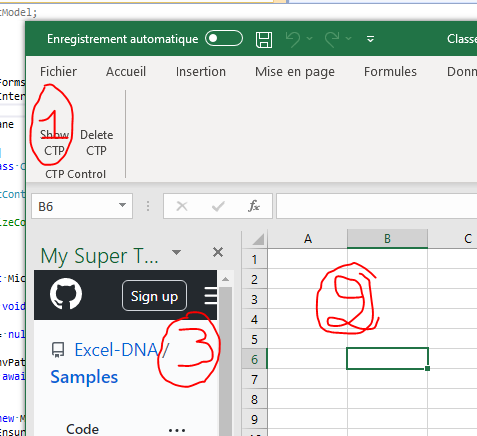
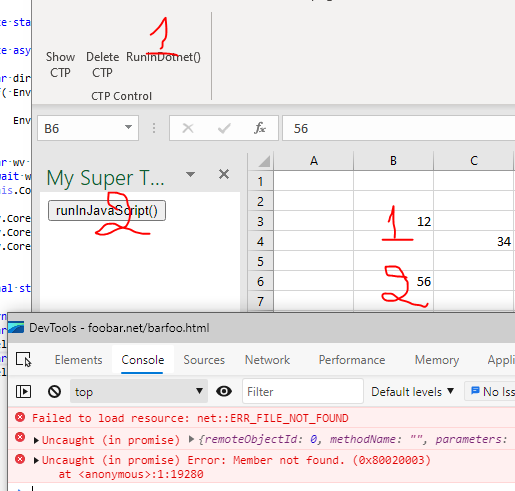
Demo Excel automation in C# & JavaScript

diff --git a/CustomTaskPane/barfoo.html b/CustomTaskPane/barfoo.html
@@ -1,0 +1,46 @@
+<html>
+<head>
+	<title>Hello world</title>
+</head>
+<body>
+
+	<button onclick="runInJavaScript()">runInJavaScript()</button>
+
+	<script type="text/javascript">
+		async function runInJavaScript()
+		{
+			var excel = chrome.webview.hostObjects.excel;
+			var cell = await excel.ActiveCell;
+			cell.Value = 56;
+			var cell2 = await excel.ActiveCell.Cells(2, 2);		// Crash with: "VM6:2 Uncaught Error: Member not found. (0x80020003)"
+															// AND
+																/*
+																Uncaught (in promise) {remoteObjectId: 0, methodName: "", parameters: {�}, callId: 16}
+																Promise.then(async)
+																createPublicObject @VM6: 1
+																applyHostFunction @VM6: 1
+																apply @VM6: 1
+																	(anonymous) @VM289: 1
+																*/
+			cell.Cells(2, 2).Value = 78;  // Crash with
+										/*
+										Uncaught(in promise) { remoteObjectId: 0, methodName: "", parameters: { � }, callId: 23 }
+										Promise.then(async)
+										createPublicObject @VM6: 1
+										applyHostFunction @VM6: 1
+										apply @VM6: 1
+											(anonymous) @VM552: 1
+										*/
+									// AND
+										/*
+										Uncaught (in promise) {remoteObjectId: 0, methodName: "", parameters: {�}, callId: 23}
+										Promise.then (async)
+										setHostProperty @ VM6:1
+										_setAmbiguous @ VM6:1
+										set @ VM6:1
+										(anonymous) @ VM552:1
+										*/
+		}
+	</script>
+</body>
+</html>

diff --git a/CustomTaskPane/ContentControl.cs b/CustomTaskPane/ContentControl.cs
@@ -23,16 +23,28 @@ namespace CustomTaskPane
 
 		private async void Foo()
 		{
+			var dirPath = System.IO.Path.GetDirectoryName( AddIn.XllPath );
 			if( Env == null )
 			{
-				var envPath = System.IO.Path.GetDirectoryName( AddIn.XllPath );
-				Env = await Microsoft.Web.WebView2.Core.CoreWebView2Environment.CreateAsync( null, envPath );
+				Env = await Microsoft.Web.WebView2.Core.CoreWebView2Environment.CreateAsync( null, dirPath );
 			}
 
 			var wv = new Microsoft.Web.WebView2.WinForms.WebView2{ Dock=DockStyle.Fill };
 			await wv.EnsureCoreWebView2Async( Env );
 			this.Controls.Add( wv );
-			wv.CoreWebView2.Navigate( "https://github.com/Excel-DNA/Samples/tree/master/CustomTaskPane" );
+
+			wv.CoreWebView2.AddHostObjectToScript( "excel", ExcelDna.Integration.ExcelDnaUtil.Application );
+			wv.CoreWebView2.SetVirtualHostNameToFolderMapping( "foobar.net", dirPath, Microsoft.Web.WebView2.Core.CoreWebView2HostResourceAccessKind.Allow );
+			wv.CoreWebView2.Navigate( "https://foobar.net/barfoo.html" );
         }
+
+		internal static void RunInDotnet()
+		{
+			dynamic application = ExcelDna.Integration.ExcelDnaUtil.Application;
+			var cell = application.ActiveCell;
+			cell.Value = 12;
+			var cell2 = cell.Cells( 2, 2 );
+			cell2.Value = 34;
+		}
     }
 }

diff --git a/CustomTaskPane/Ribbon.cs b/CustomTaskPane/Ribbon.cs
@@ -16,6 +16,7 @@ namespace CustomTaskPane
         <group id='SampleGroup' label='CTP Control'>
             <button id='Button1' label='Show CTP' size='large' onAction='OnShowCTP' />
             <button id='Button2' label='Delete CTP' size='large' onAction='OnDeleteCTP' />
+            <button id='Button3' label='RunInDotnet()' size='large' onAction='RunInDotnet' />
         </group >
         </tab>
     </tabs>
@@ -34,5 +35,10 @@ namespace CustomTaskPane
         {
             CTPManager.DeleteCTP();
         }
+
+		public void RunInDotnet(IRibbonControl control)
+		{
+			ContentControl.RunInDotnet();
+		}
     }
 }

diff --git a/README.md b/README.md
@@ -1,12 +1,12 @@
-# Test project to demonstrate keyboard focus issue with ExcelDNA + TaskPane + WebView2
-
-cf. issue at https://github.com/MicrosoftEdge/WebView2Feedback/issues/933  
+# Test project to demonstrate issue with Excel COM object when used by JavaScript as hostObject in a WebView2 control
 The demo project is at [./CustomTaskPane/](./CustomTaskPane/)
 
-0) Open an empty Excel file  
-1) Click show task pane  
-2) Test that the arrow keys/page up|down/etc. are still moving the Excel's cursor in the worksheet  
-3) Click the WebView2 so it takes control  
-4) Back to (2), the arrow keys/page up|down/etc. are still moving the WebView's page, but not the Excel's cursor anymore  
-5) Focus on another window and go back, everything is back to normal (2)  
-![alt text](screenshot01.png "Logo Title Text 1")
+1) When the little automation script is run from C#, the execution successfully completes  
+   (cf. `RunInDotnet()` in `ContentControl.cs`)  
+2) When the same automation script is run from JavaScript,  
+   (cf. `runInJavaScript()` in `barfoo.html`)  
+   the execution fails with  
+   ```
+    VM6:2 Uncaught Error: Member not found. (0x80020003)
+   ```  
+![alt text](./CustomTaskPane/screenshot01.png "Logo Title Text 1")

diff --git a/CustomTaskPane/README.md b/CustomTaskPane/README.md
@@ -1,11 +1,11 @@
-# Test project to demonstrate keyboard focus issue with ExcelDNA + TaskPane + WebView2
+# Test project to demonstrate issue with Excel COM object when used by JavaScript as hostObject in a WebView2 control
 
-cf. issue at https://github.com/MicrosoftEdge/WebView2Feedback/issues/933  
-
-0) Open an empty Excel file  
-1) Click show task pane  
-2) Test that the arrow keys/page up|down/etc. are still moving the Excel's cursor in the worksheet  
-3) Click the WebView2 so it takes control  
-4) Back to (2), the arrow keys/page up|down/etc. are still moving the WebView's page, but not the Excel's cursor anymore  
-5) Focus on another window and go back, everything is back to normal (2)  
+1) When the little automation script is run from C#, the execution successfully completes  
+   (cf. `RunInDotnet()` in `ContentControl.cs`)  
+2) When the same automation script is run from JavaScript,  
+   (cf. `runInJavaScript()` in `barfoo.html`)  
+   the execution fails with  
+   ```
+    VM6:2 Uncaught Error: Member not found. (0x80020003)
+   ```  
 ![alt text](screenshot01.png "Logo Title Text 1")
